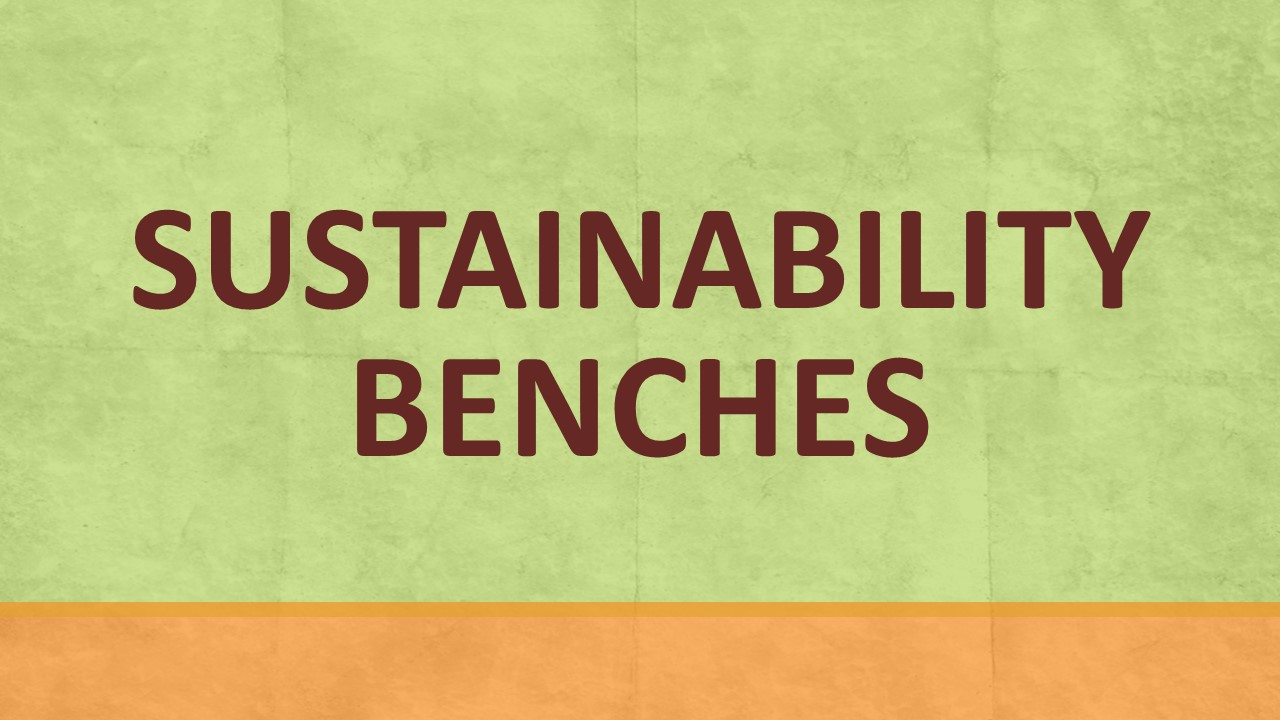
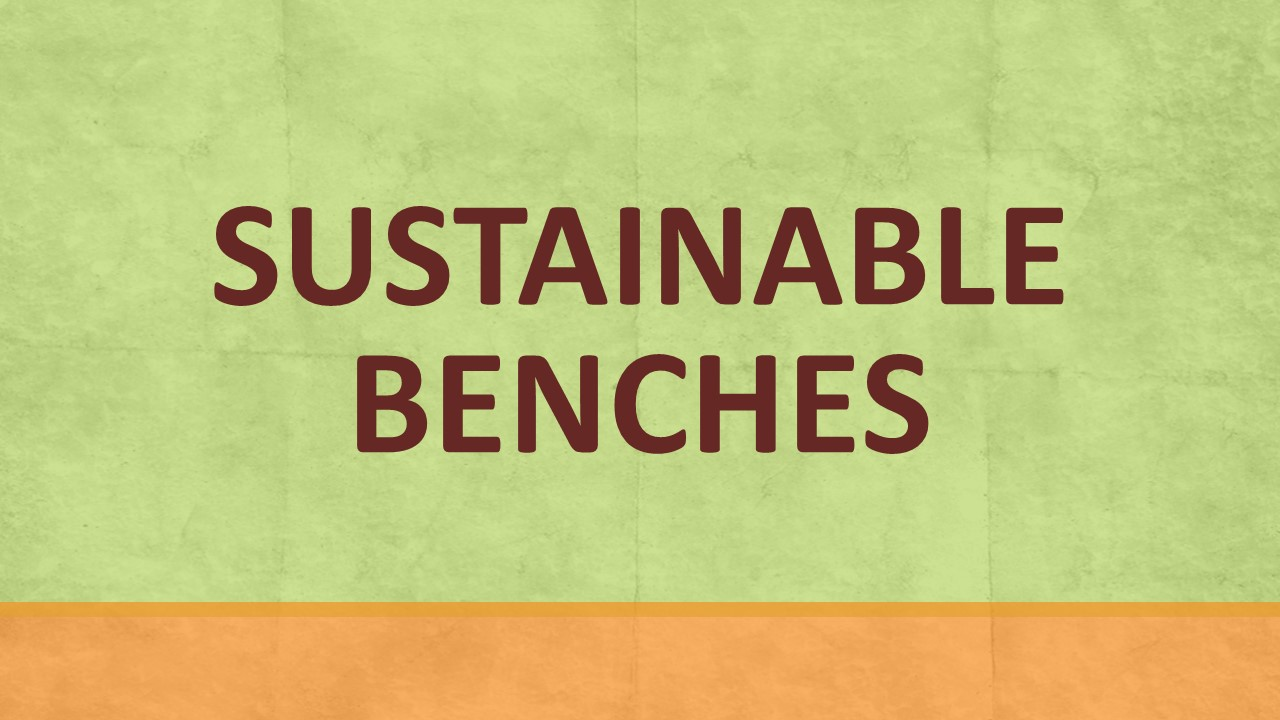
Nodes1

diff --git a/_nodes-at-parks/1-nodes-intro.md b/_nodes-at-parks/1-nodes-intro.md
@@ -9,33 +9,35 @@ third_nav_title: 'Nodes at Parks'
 
 ![](../images/nodes-at-parks-01-min.png)
 
-Encounter eResources on Sustainability at a park near you! From 14 October 2022 to 26 February 2023, NLB is presenting a brand-new initiative called “Nodes at Parks”. Come interact with NLB’s exciting eResources on Sustainability. It consists of two parts: **[The Sustainability Showcase](https://go.gov.sg/rtbs-nodes-showcase)**, and **[Sustainable Benches](https://go.gov.sg/rtbs-nodes-bench)**. Don’t miss the opportunity to visit us at:
+Encounter eResources on Sustainability at a park near you! From 14 October 2022 to 26 February 2023, NLB is presenting a brand-new initiative called “Nodes at Parks”. Come interact with NLB’s exciting eResources on Sustainability. It consists of two parts: The Sustainability Showcase, and Sustainable Benches. Don’t miss the opportunity to visit us at:
 
 1. **Gardens by the Bay** beside the Ticketing Office (near Flower Dome)**:** 14 October to 22 November 2022
 2. **Jurong Lake Gardens** at the Entrance Pavilion**:** 25 November to 18 December 2022
 3. **East Coast Park** at Raintree Cove**:** 21 December 2022 to 24 January 2023
 4. **Pasir Ris Park** at the Shelter near Carpark D**:** 27 January to 26 February 2023
 
+Click [**here**](https://go.gov.sg/rtbs-nodes-showcase) for the location map.
+
 
 
 <div>
 <div class="row is-multiline">
-    <div class="col is-half-desktop is-half-ta
+    <div class="col is-one-third-desktop is-one-third-ta
 blet">
 <a href="#1"><img src="../images/rtbs-nodes-button1.jpg" alt="nodes button 1"></a>
 </div>
-    <div class="col is-half-desktop is-half-tablet">
+    <div class="col is-one-third-desktop is-one-third-tablet">
 <a href="#2"><img src="../images/rtbs-nodes-button2.jpg" alt="nodes button 2"></a>
 </div>
-    <div class="col is-half-desktop is-half-tablet">
+    <div class="col is-one-third-desktop is-one-third-tablet">
 <a href="#3"><img src="../images/rtbs-nodes-button3.jpg" alt="nodes button 3"></a>
 </div>    
-    <div class="col is-half-desktop is-half-tablet">
+    <div class="col is-one-third-desktop is-one-third-tablet">
 <a href="#4"><img src="../images/rtbs-nodes-button4.jpg" alt="nodes button 4"></a>
 </div>    
-	<div class="col is-half-desktop is-half-tablet"><a href="#5"><img src="../images/rtbs-nodes-button5.jpg" alt="nodes button 5"></a>
+	<div class="col is-one-third-desktop is-one-third-tablet"><a href="#5"><img src="../images/rtbs-nodes-button5.jpg" alt="nodes button 5"></a>
 </div>    
-	<div class="col is-half-desktop is-half-tablet"><a href="#6"><img src="../images/rtbs-nodes-button6.jpg" alt="nodes button 6"></a>
+	<div class="col is-one-third-desktop is-one-third-tablet"><a href="#6"><img src="../images/rtbs-nodes-button6.jpg" alt="nodes button 6"></a>
     </div></div></div>
 
 
@@ -53,9 +55,9 @@ blet">
 
 Ever wondered how your daily purchasing decisions impact the environment? Don’t miss this opportunity to browse our “supermarket” aisles and learn about 8 different topics on Sustainability. The items on display showcase interesting products that are conceptual ideas or existing products by green entrepreneurs. Learn about topics such as single-use plastics, composting, sustainable food production and more. 
 
-The **[Read to be Sure](/read-to-be-sure/intro/)** component of the **[Sustainability Showcase](https://go.gov.sg/rtbs-nodes-showcase)** provides multiple perspectives to sustainability issues so you can see the big picture. Don’t forget to vote for your preferred perspective too! 
+The **[Read to be Sure](/read-to-be-sure/intro/)** component of the Sustainability Showcase provides multiple perspectives to sustainability issues so you can see the big picture. Don’t forget to vote for your preferred perspective too! 
 
-As part of the suite of activities at the Showcase you will also be able to contribute an environmental memory, collect free pre-loved books, donate your own pre-loved books, as well as participate in interactive activities to collect sustainable giveaways. 
+As part of the suite of activities at the Showcase you will also be able to collect free pre-loved books, donate your own pre-loved books, as well as participate in interactive activities to collect sustainable giveaways. 
 
 
 
@@ -93,9 +95,9 @@ Click **[here](https://go.gov.sg/showandtell-monthlyschedule)** to view our sche
 
 ![](../images/nodes-at-parks-05-min.png)
 
+Look out for our specially curated Sustainable Benches [located around the park](https://go.gov.sg/rtbs-nodes-bench)! Placed in the vicinity of the [Sustainability Showcase](https://go.gov.sg/rtbs-nodes-showcase), these benches allow you to access a wide range of sustainability-themed eResources without having to step foot in the library!  Scan their QR codes to access enriching eReads and watch videos created by Republic Polytechnic students!
 
-
-Look out for our specially curated upcycled [Benches around the Park](https://go.gov.sg/rtbs-nodes-bench)! Placed in the vicinity of the [Sustainability Showcase](https://go.gov.sg/rtbs-nodes-showcase), these benches are 3D installations with interactive elements such as videos for you to discover and directly experience the topic of Sustainability through NLB’s eCollection. 7 secondary schools have come on board to paint their own designs on the Sustainable benches, rendering their creative interpretations of NLB’s sustainability eResources in all its visual splendour! The benches will be adopted by the schools after the duration of the run.
+7 secondary schools have come on board to paint their own designs on the Sustainable benches, rendering their creative interpretations of NLB’s sustainability eResources in all its visual splendour! The benches will be adopted by the schools after the duration of the run.
 
  
 
@@ -126,12 +128,13 @@ Participating schools:
 
 
 <HR>
-
 <a name="5"></a> 
 
-**<font size=5>Unscramble & Win! $500 worth of shopping vouchers up for grabs!</font>**
+**<font size=5>Unscramble & Win! $100 worth of shopping eVouchers up for grabs!</font>**
 
-Ready to hunt down the sustainable benches in the park? Scan the QR codes on the benches to find 14 hidden letters. Unscramble them and submit your answer. $100 worth of shopping evouchers are up for grabs! Click **[here](https://go.gov.sg/seekandunscramble4)** to find out more. **[Terms and conditions](https://go.gov.sg/susbenchtc)** apply.
+Ready to hunt down the sustainable benches in the park? Scan the QR codes on the benches to find 14 hidden letters. Unscramble them and submit your answer. $100 worth of shopping eVouchers are up for grabs for 5 lucky winners at each park! 
+
+ Click **[here](https://go.gov.sg/seekandunscramble4)** to find out more. **[Terms and conditions](https://go.gov.sg/susbenchtc)** apply.
 
  
 
@@ -147,7 +150,7 @@ Want to have quick read on Sustainability before coming down to our Showcase? Ch
 
 
 
-
+<hr>
 
 **<font size=5>Acknowledgements</font>** 
 
@@ -167,9 +170,7 @@ Want to have quick read on Sustainability before coming down to our Showcase? Ch
 
 - [Nanyang Polytechnic](https://www.nyp.edu.sg/)
 
-- [NetaFarm](https://www.fairprice.com.sg/brand/netafarm)
-
-- [Plastic-Lite SG](https://plasticlite.sg/)
+- [Netafarm](https://www.sfa.gov.sg/fromSGtoSG/farms/farm/Detail/netatech)
 
 - [Shiok Meats](https://shiokmeats.com/)
 

diff --git a/_nodes-at-parks/1b-nodes05.md b/_nodes-at-parks/1b-nodes05.md
@@ -26,8 +26,6 @@ Urban wastes such as wood from trees felled in urban areas or reclaimed wood fro
 
 [https://www.bwf.org.uk/toolkit/environmental-waste-management/circular-economy/](https://www.bwf.org.uk/toolkit/environmental-waste-management/circular-economy/)
 
-[https://www.fastcompany.com/90710638/danes-dont-want-their-vintage-furniture-this-company-has-upcycled-10000-pieces-of-it-for-americans](https://www.fastcompany.com/90710638/danes-dont-want-their-vintage-furniture-this-company-has-upcycled-10000-pieces-of-it-for-americans)
-
 [https://bioresources.cnr.ncsu.edu/resources/the-case-for-urban-and-reclaimed-wood-in-the-circular-economy/](https://bioresources.cnr.ncsu.edu/resources/the-case-for-urban-and-reclaimed-wood-in-the-circular-economy/ ) 
 
 [https://ellenmacarthurfoundation.org/articles/recycling-and-the-circular-seconomy-whats-the-difference](https://ellenmacarthurfoundation.org/articles/recycling-and-the-circular-economy-whats-the-difference ) 

diff --git a/_nodes-at-parks/1a-nodes01.md b/_nodes-at-parks/1a-nodes01.md
@@ -42,8 +42,6 @@ In light of the pandemic, single-used plastic products such as gloves and masks 
 
 [https://www.gep.com/blog/mind/single-use-plastics-a-necessary-evil-during-the-pandemic](https://www.gep.com/blog/mind/single-use-plastics-a-necessary-evil-during-the-pandemic)
 
-[https://www.channelnewsasia.com/commentary/ome-plastic-food-packaging-necessary-alternative-waste-874771](https://www.channelnewsasia.com/commentary/ome-plastic-food-packaging-necessary-alternative-waste-874771)
-
 [www.weforum.org/agenda/2018/05/plastic-asset-legal-policy-responsible-use-sadhguru/](http://www.weforum.org/agenda/2018/05/plastic-asset-legal-policy-responsible-use-sadhguru/)
 
 [https://qz.com/1189422/in-defense-of-plastic-the-worlds-most-wasteful-hazardous-downright-useful-material/](https://qz.com/1189422/in-defense-of-plastic-the-worlds-most-wasteful-hazardous-downright-useful-material/)
